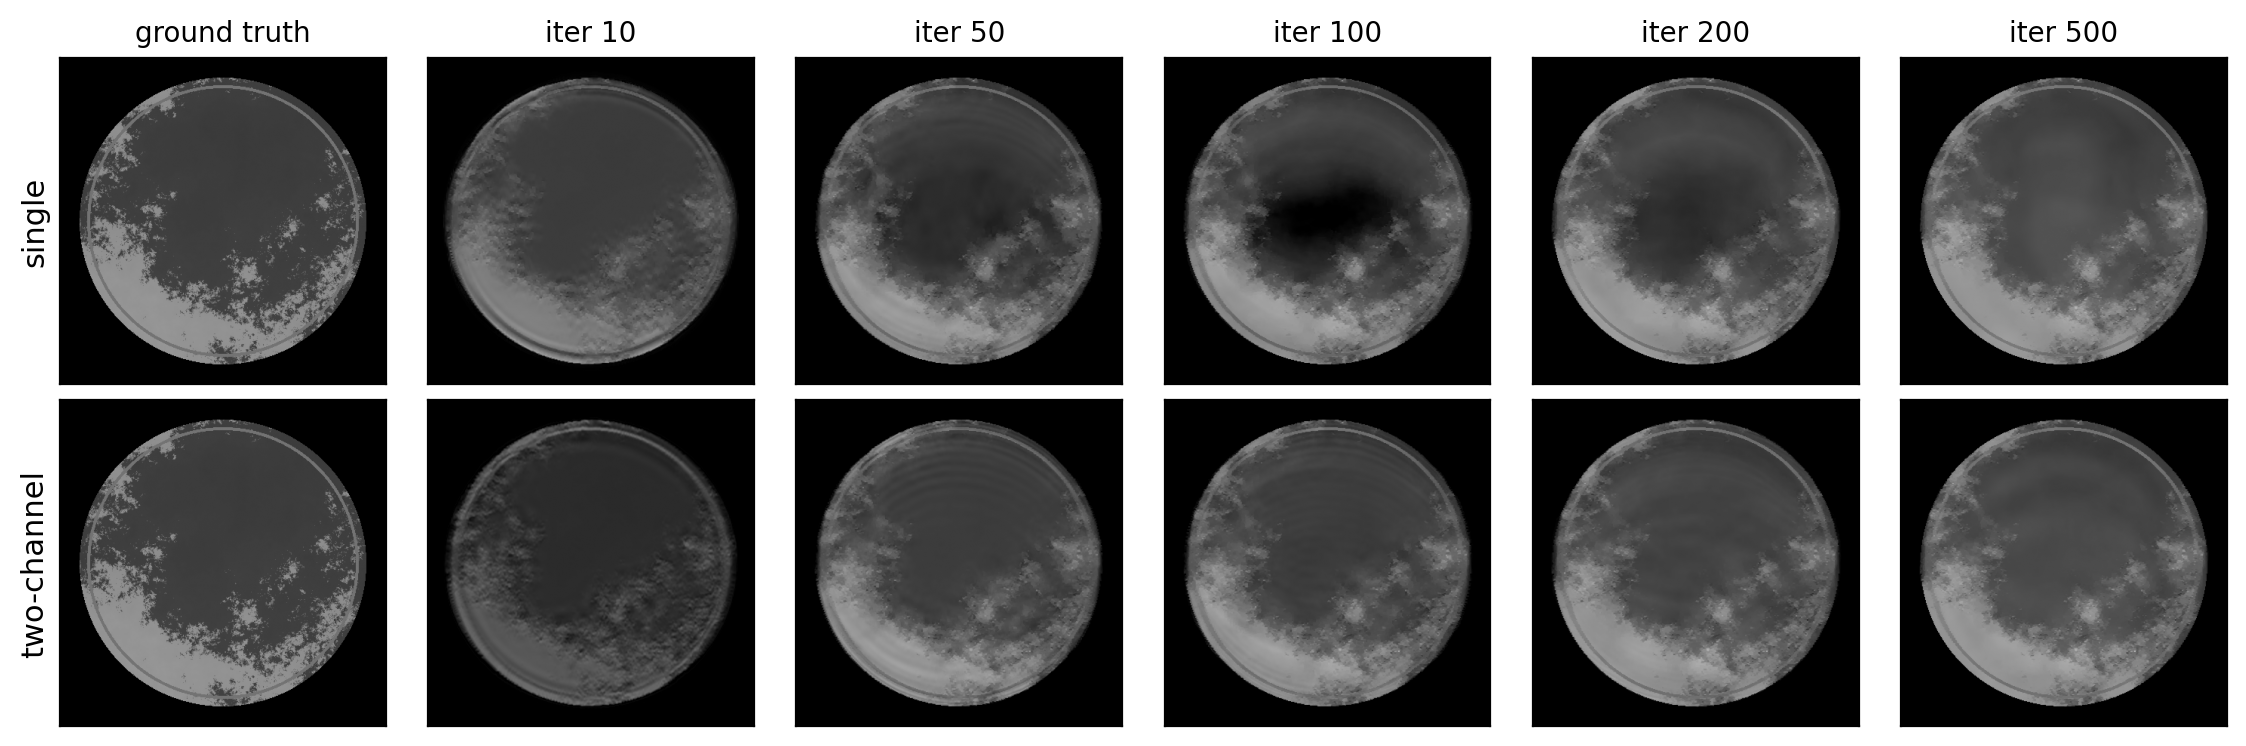
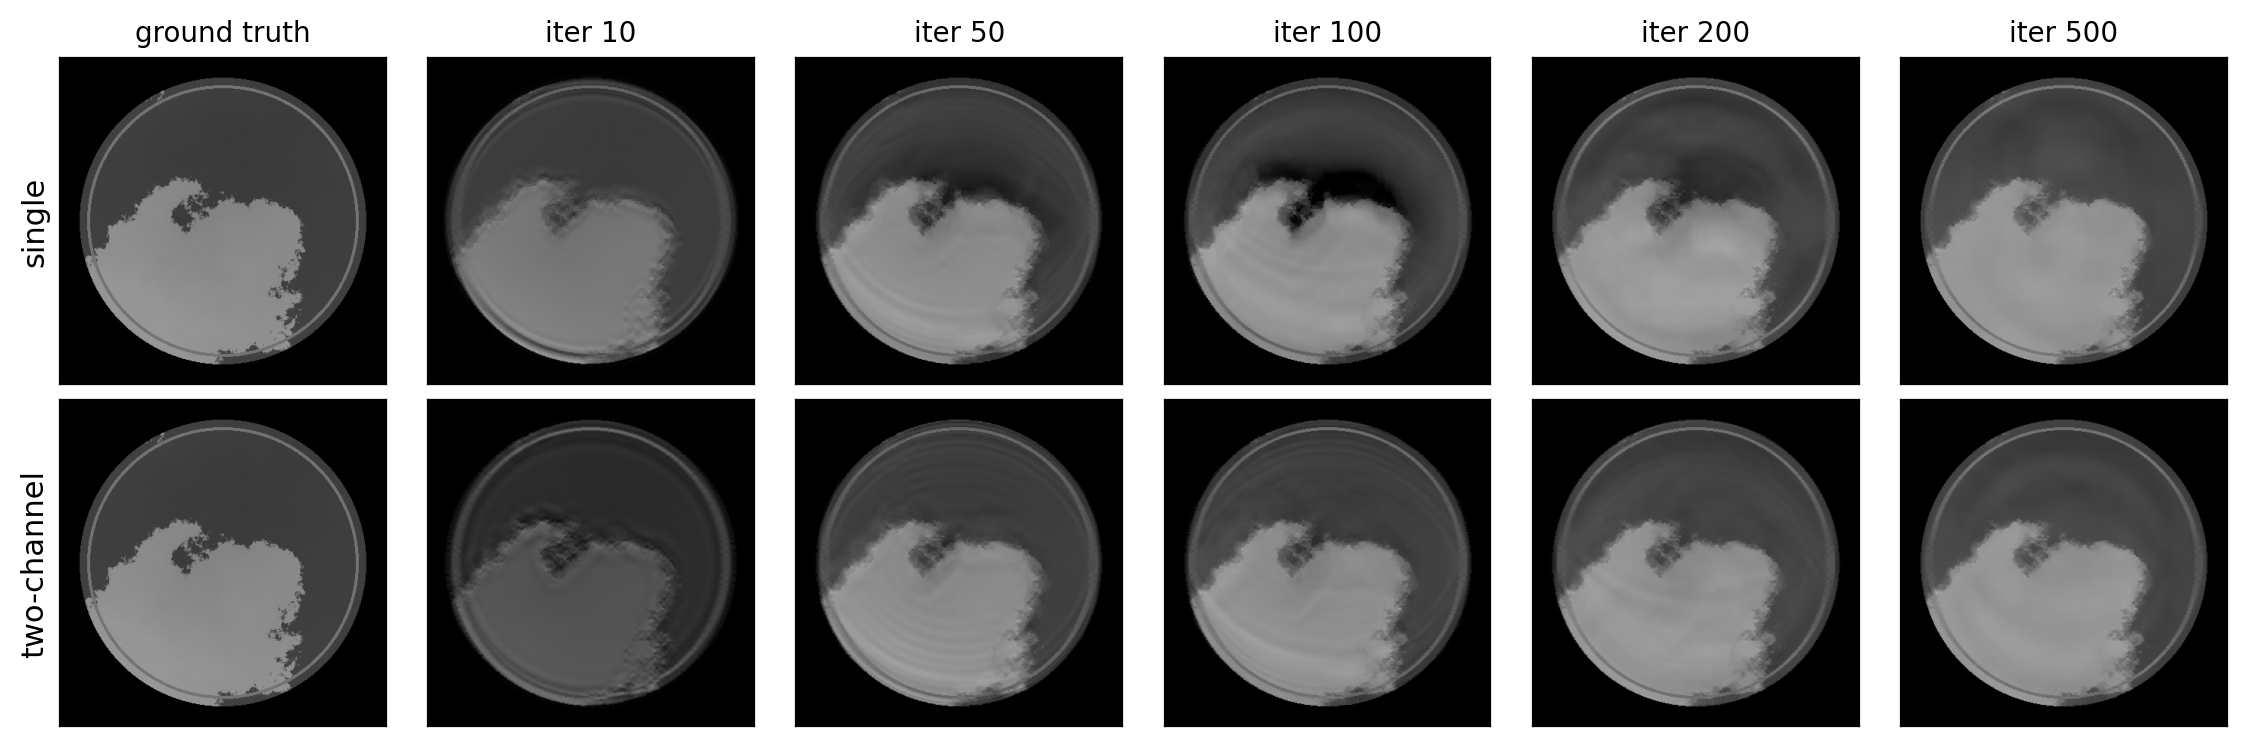
duller calcifications

diff --git a/scripts/_run_synthetic_phantoms.py b/scripts/_run_synthetic_phantoms.py
@@ -143,9 +143,11 @@ def _powerlaw_field(shape, alpha, rng):
 
 
 def build_powerlaw_phantom(shape, dx_cm, rng,
-                            alpha_lf=2.0, alpha_hf=1.5,
-                            lf_weight=0.7,
-                            glandular_fraction=0.42,
+                            alpha_main=2.5, alpha_hf=1.8,
+                            hf_weight=0.18,
+                            center_bias_strength=2.6,
+                            center_sigma_cm=5.0,
+                            glandular_fraction=0.38,
                             intra_tissue_variation=0.10,
                             n_calc_clusters=40,
                             calc_cluster_size_range=(4, 12),
@@ -153,33 +155,45 @@ def build_powerlaw_phantom(shape, dx_cm, rng,
                             skin_thickness_cm=0.20, skin_radius_cm=9.0,
                             mu_adipose=0.10, mu_glandular=0.22,
                             mu_skin=0.18, mu_calc=0.50):
-    """A: multi-band 3D power-law phantom emulating the 2D paper-breast.
+    """A: 3D power-law phantom (single band, alpha=2.5) with a Gaussian
+    center bias so the glandular region forms a large central island
+    surrounded by adipose -- matching the spatial layout of the 2D
+    paper-breast (Reiser-style) phantom.
 
-    Two power-law fields (LF alpha=2.8 + HF alpha=1.8) are combined and
-    hard-thresholded to a binary glandular mask, giving irregular pocketed
-    tissue boundaries similar to the Adipose / Fibroglandular maps of
-    the Reiser 2D paper-breast phantom. A skin ring is added at the
-    outer breast edge. Calcifications are emplaced as small clusters
-    (3-9 voxels each) rather than single isolated voxels. Within-tissue
-    intensity is modulated by +-intra_tissue_variation * the LF field
-    so neither tissue type is perfectly flat.
+    Single-band alpha=2.5 gives smoother large-scale boundaries (less
+    fine speckle than the multi-band v1 / v2). The radial Gaussian
+    center bias is added to the noise field before thresholding so
+    voxels near the centre are more likely to be flagged glandular.
+    A skin ring is added at the outer breast edge. Calcifications are
+    emplaced as small clusters (3-12 voxels each). Within-tissue
+    intensity is modulated by the noise field for slow density drift.
     """
     NZ, NY, NX = shape
-    field_lf = _powerlaw_field(shape, alpha_lf, rng)
-    field_hf = _powerlaw_field(shape, alpha_hf, rng)
-    combined = lf_weight * field_lf + (1.0 - lf_weight) * field_hf
+    field_main = _powerlaw_field(shape, alpha_main, rng)
+    field_hf   = _powerlaw_field(shape, alpha_hf, rng)
+    field = (1.0 - hf_weight) * field_main + hf_weight * field_hf
 
-    # Binary glandular mask (hard threshold gives pocketed irregular edges)
-    threshold = float(np.quantile(combined, 1 - glandular_fraction))
-    glandular = combined > threshold
+    # Radial Gaussian centre bias (xy only -- z does not bias)
+    y = (np.arange(NY) - (NY - 1) / 2) * dx_cm
+    x = (np.arange(NX) - (NX - 1) / 2) * dx_cm
+    Y, X = np.meshgrid(y, x, indexing="ij")
+    center_bias_xy = np.exp(-(Y * Y + X * X) / (2 * center_sigma_cm ** 2))
+    center_bias = np.broadcast_to(center_bias_xy[np.newaxis, :, :],
+                                   shape).astype(np.float32)
+    # Push glandular toward the centre -- centre voxels get a bump
+    biased = field + center_bias_strength * center_bias
+
+    # Binary glandular mask (single threshold on biased field)
+    threshold = float(np.quantile(biased, 1 - glandular_fraction))
+    glandular = biased > threshold
+
+    combined = field   # used below for intra-tissue modulation
 
     vol = np.where(glandular, mu_glandular, mu_adipose).astype(np.float32)
 
     # Intra-tissue density variation (+-intra_tissue_variation of nominal mu)
     if intra_tissue_variation > 0:
-        # Use the LF field (smooth) so the variation looks like pockets
-        # of less/more dense rather than noise
-        mod = intra_tissue_variation * (field_lf / max(np.abs(field_lf).max(), 1e-12))
+        mod = intra_tissue_variation * (combined / max(np.abs(combined).max(), 1e-12))
         vol = vol * (1.0 + mod).astype(np.float32)
 
     # Outer skin ring (mu_skin) and air outside skin
